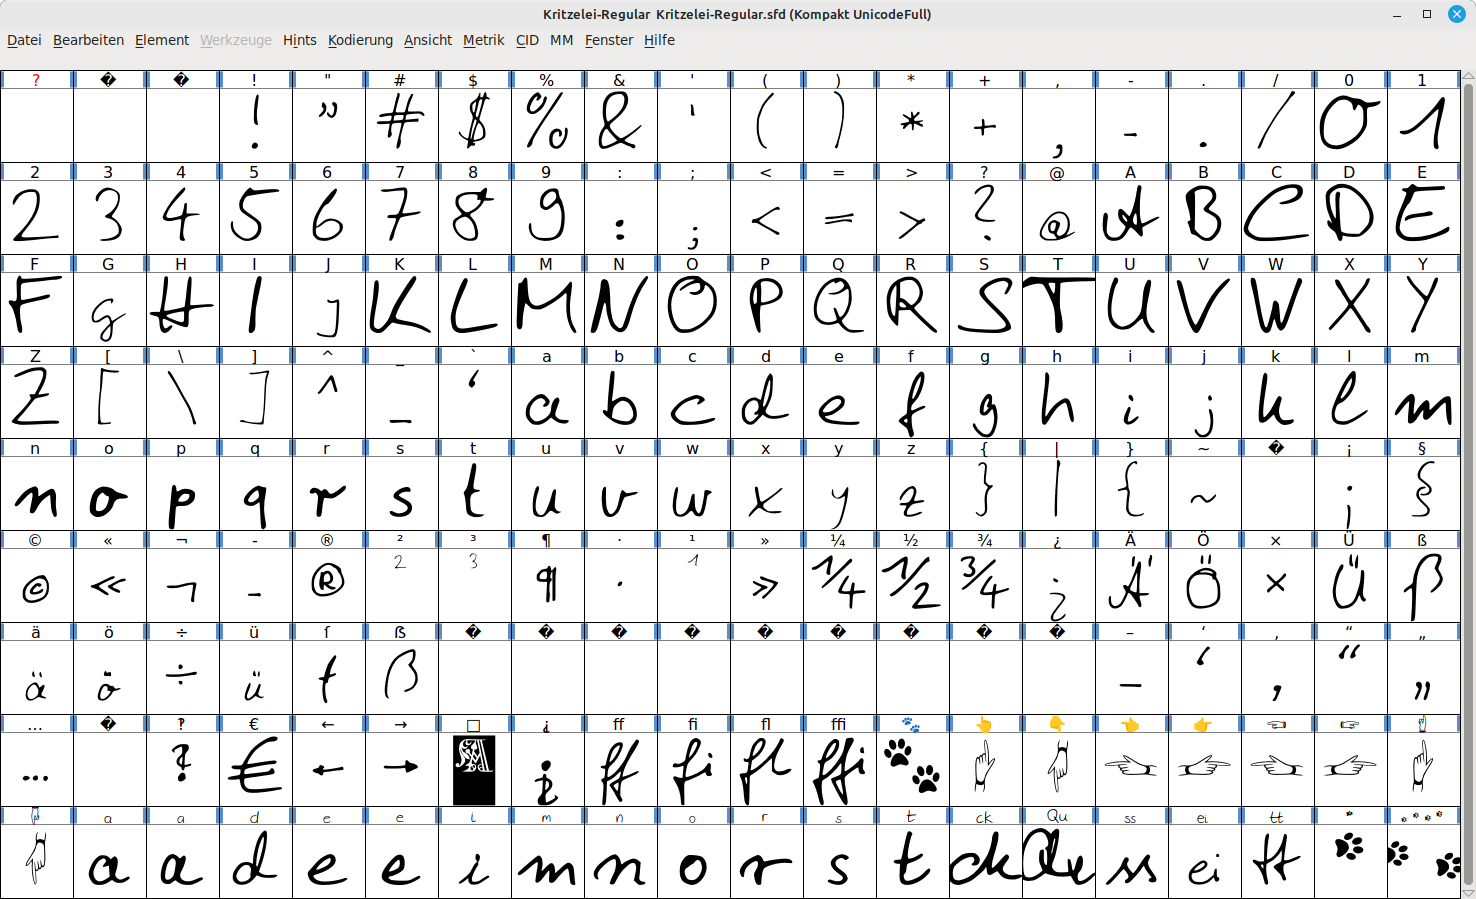
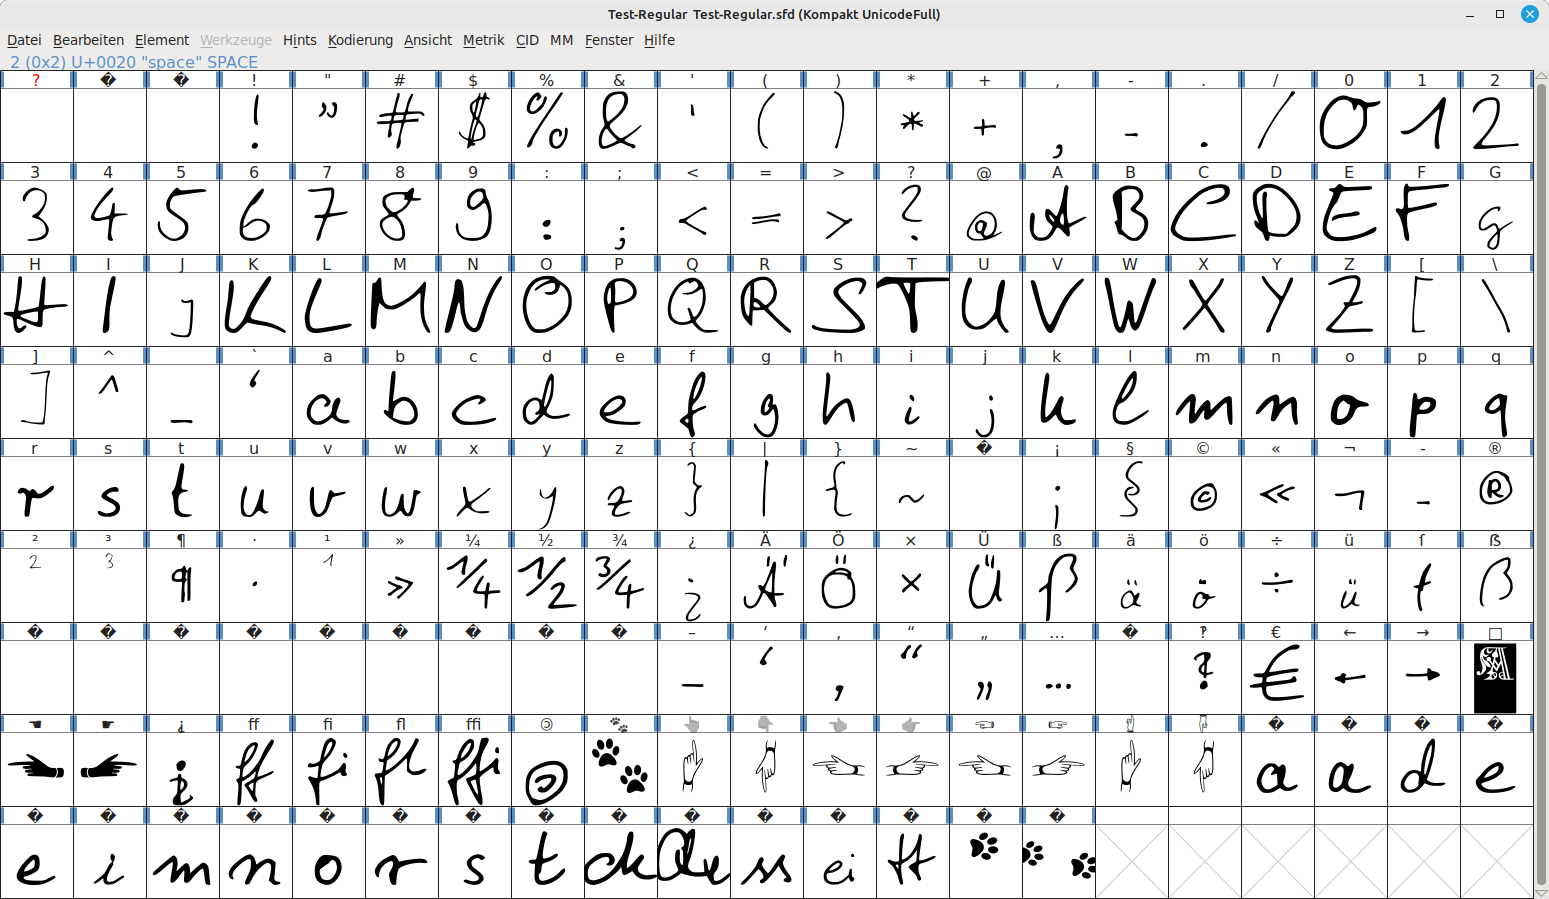
add copyleft symbol
rotate copyright to add copyleft symbol.

Changed region(s): [[0.0, 0.0, 0.9973, 1.0], [0.9661, 0.0, 0.9973, 0.0311], [0.1558, 0.4049, 0.187, 0.436]]

diff --git a/Kritzelei-wird-Schrift-SVG2Font.py b/Kritzelei-wird-Schrift-SVG2Font.py
@@ -341,6 +341,12 @@ exclamdown.addReference('exclam', psMat.rotate(math.radians(180)))
 exclamdown.unlinkRef()
 exclamdown.comment = 'Umgedrehtes Ausrufezeichen.'
 
+# COPYLEFT SYMBOL
+copl = font.createChar(0x1F12F, 'u1F12F')
+copl.addReference('copyright', psMat.rotate(math.radians(180)))
+copl.unlinkRef()
+copl.comment = 'Copyleft symbol.'
+
 # SOFT HYPHEN
 softhyphen = font.createChar(0xAD, 'uni00AD')
 softhyphen.addReference('hyphen')
@@ -412,7 +418,7 @@ minToMaxLess  = baseMin + baseToMaxLess
 baseToMaxGlyphs = ["exclam", "numbersign", "dollar", "percent", "ampersand", "parenleft", "parenright", "slash", "question",  "A", "B", "C", "D", "E", "F", "H", "I", "K", "L", "M", "N", "O", "P", "Q", "R", "S", "T", "U", "V", "W", "X", "Y", "Z", "bracketleft", "backslash", "bracketright", "braceleft", "bar", "braceright", "section", "Adieresis", "Odieresis", "Udieresis", "Euro", "Q_u.liga"]
 baseToXGlyphs = ["at", "a", "c", "e", "i", "m", "n", "o", "r", "s", "u", "v", "w", "x", "z", "adieresis", "odieresis", "udieresis", "a.ss01", "a.ss02", "e.ss01", "e.ss02", "i.ss01", "m.ss01", "n.ss01", "o.ss01", "r.ss01", "s.ss01", "s_s.liga", "e_i.liga"]
 baseToMaxLessGlyphs = ["b", "d", "h", "k", "l", "t", "onequarter", "onehalf", "threequarters", "d.ss01", "t.ss01", "c_k.liga", "t_t.liga", "zero", "one", "two", "three", "four", "five", "six", "seven", "eight", "nine", "u1F59E", "u1F59F", "u1F446", "u1F447"]
-minToXGlyphs = ["g", "j", "p", "q", "y", "exclamdown", "questiondown", "uni2E18"]
+minToXGlyphs = ["g", "j", "p", "q", "y", "exclamdown", "questiondown", "uni2E18", "u1F12F"]
 minToMaxLessGlyphs = ["f", "germandbls", "uniFB00", "uniFB01", "uniFB02", "uniFB03"]
 
 adjustGlyphs = []
